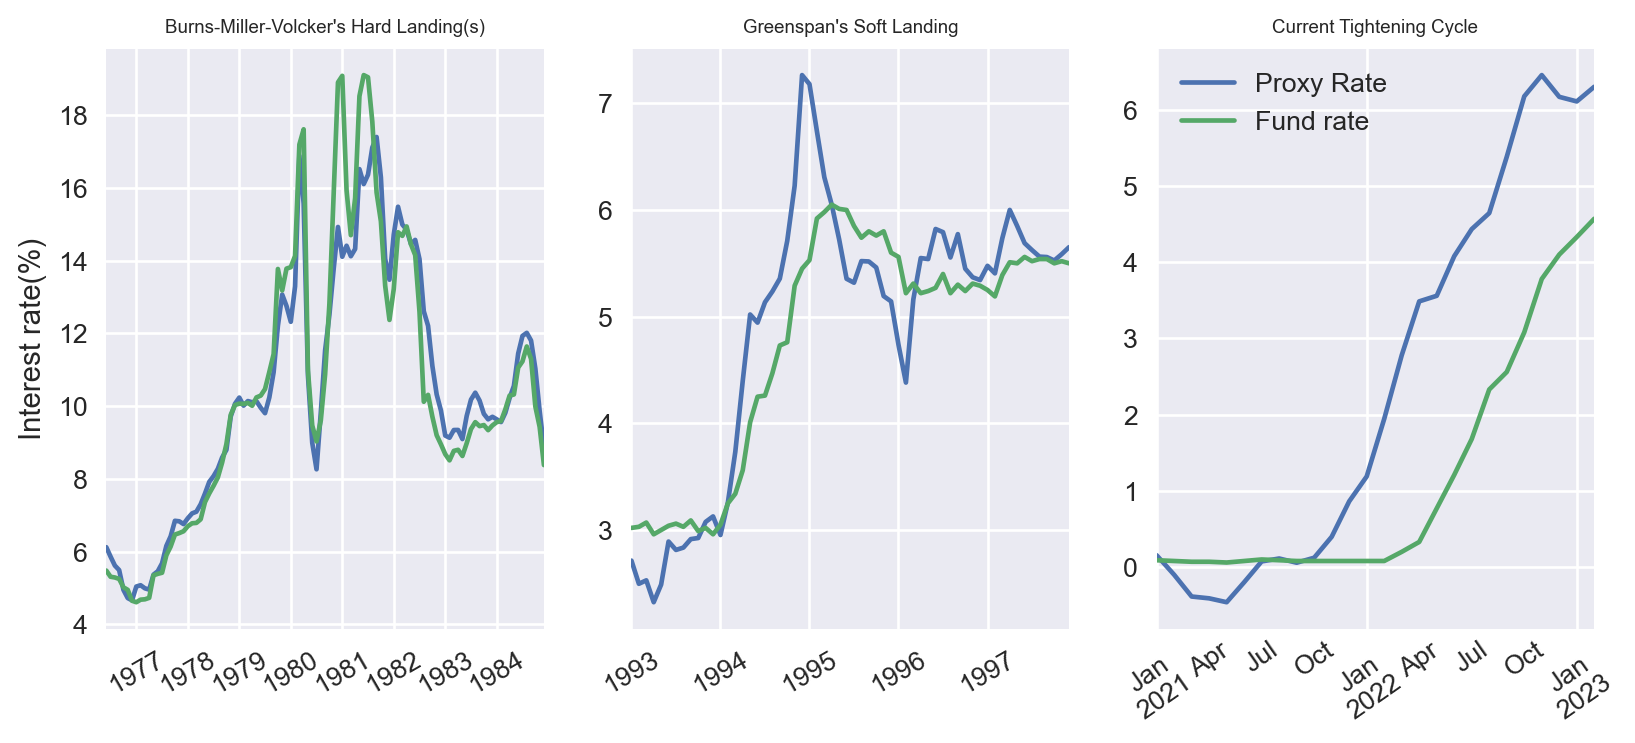
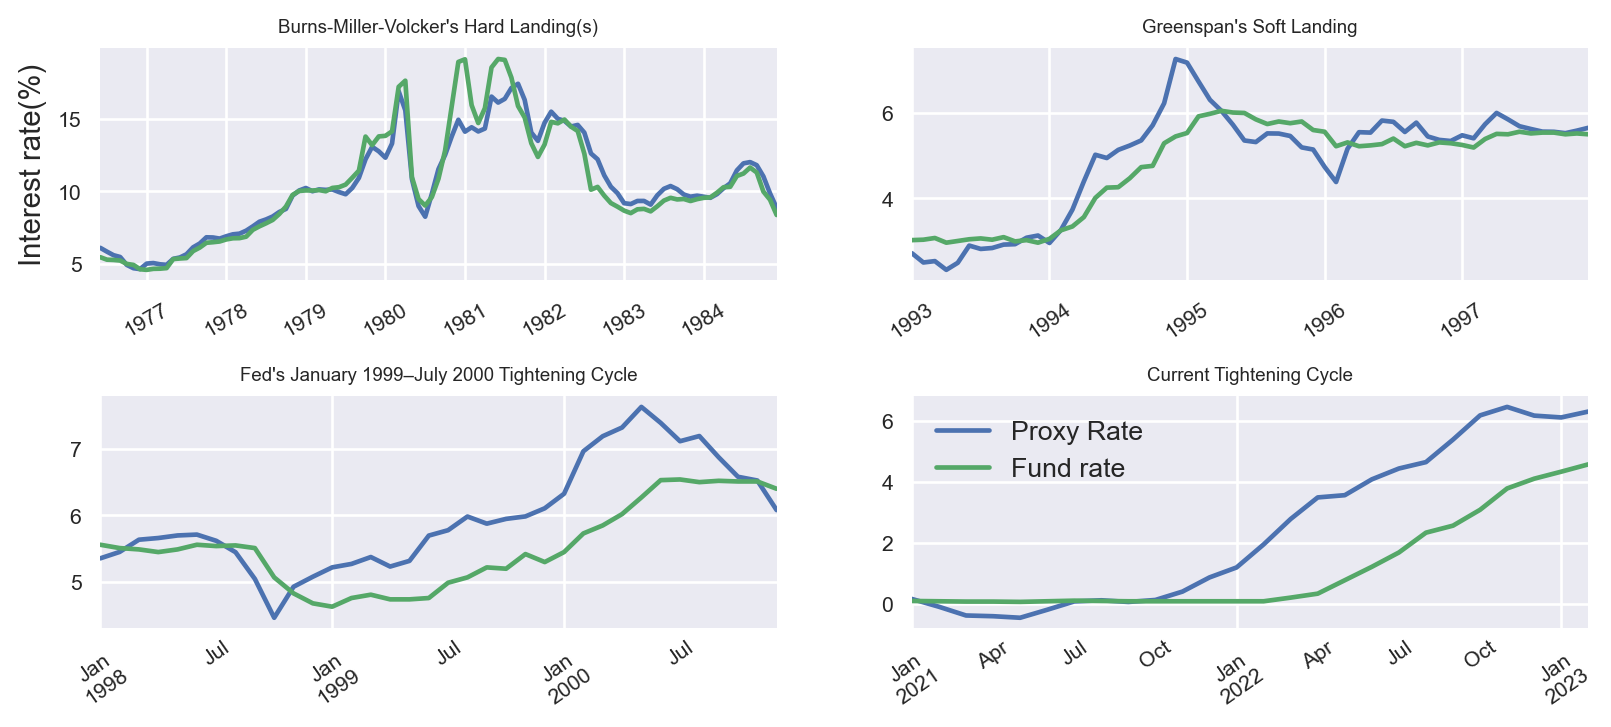
Updated my blog

diff --git a/docs/posts/Hawkish_Fed/Hawkish_Fed.html b/docs/posts/Hawkish_Fed/Hawkish_Fed.html
@@ -127,8 +127,8 @@ gtag('config', '170377145', { 'anonymize_ip': true});
    
   <ul>
   <li><a href="#introduction" id="toc-introduction" class="nav-link active" data-scroll-target="#introduction">Introduction</a></li>
-  <li><a href="#measuring-forward-guidance" id="toc-measuring-forward-guidance" class="nav-link" data-scroll-target="#measuring-forward-guidance">Measuring Forward Guidance</a></li>
-  <li><a href="#has-the-conduct-of-forward-guidance-really-changed" id="toc-has-the-conduct-of-forward-guidance-really-changed" class="nav-link" data-scroll-target="#has-the-conduct-of-forward-guidance-really-changed">Has the conduct of Forward Guidance really changed ?</a></li>
+  <li><a href="#measuring-forward-guidance-until-we-finish-the-job" id="toc-measuring-forward-guidance-until-we-finish-the-job" class="nav-link" data-scroll-target="#measuring-forward-guidance-until-we-finish-the-job">Measuring Forward Guidance: “Until We Finish the Job”</a></li>
+  <li><a href="#has-forward-guidance-changed" id="toc-has-forward-guidance-changed" class="nav-link" data-scroll-target="#has-forward-guidance-changed">Has Forward Guidance changed ?</a></li>
   <li><a href="#the-implications-for-soft-landing" id="toc-the-implications-for-soft-landing" class="nav-link" data-scroll-target="#the-implications-for-soft-landing">The implications for Soft Landing</a></li>
   </ul>
 </nav>
@@ -177,7 +177,7 @@ gtag('config', '170377145', { 'anonymize_ip': true});
 <p>One way to measure the Fed’s forward guidance is to look at the “proxy rate,” which is published by the Federal Reserve Bank of San Francisco (See <a href="https://www.frbsf.org/economic-research/indicators-data/proxy-funds-rate/">here</a> and <a href="https://www.frbsf.org/economic-research/publications/economic-letter/2022/november/monetary-policy-stance-is-tighter-than-federal-funds-rate/">here</a>). The proxy rate combines the Fed’s policy rate with the level of interest rate implied by the balance sheet changes and direct communication. Hence it incorporates the hypothetical interest rate that captures the total impact of balance sheet changes (which are also used to guide expectations) and statements on financial markets.</p>
 <p>I have plotted the proxy and policy rate in <a href="#fig-1">Figure&nbsp;1</a> below. Note that the proxy rate leads the actual policy rate because of the way monetary policy is implemented. Typically, the markets are set up in anticipation of a change in the policy rate before the change actually takes place. This pattern is (unsurprisingly) pronounced after 2007.</p>
 <p>Before the global financial crisis, the proxy rate and the fund rate were closely correlated. However, they started to diverge after 2007, when quantitative easing (QE) and forward guidance became integral components of the monetary policy framework. During this period, the use of forward guidance amounted to a monetary policy stance of negative interest rates (validating the purpose that it was designed). These ultra-low interest rates persisted until 2014 according to the proxy rate. At that point the Fed started tightening its policy until the pandemic hit.</p>
-<div class="cell" data-execution_count="2">
+<div class="cell" data-execution_count="3">
 <div class="cell-output cell-output-display">
 <div id="fig-1" class="quarto-figure quarto-figure-center anchored">
 <figure class="figure">
@@ -190,10 +190,10 @@ gtag('config', '170377145', { 'anonymize_ip': true});
 <p>In recent years, many people (including respected <a href="https://www.lse.ac.uk/CFM/assets/pdf/CFM-Discussion-Papers-2022/CFMDP2022-09-Paper.pdf">academics</a>) have criticized the Fed for acting too slowly to address the rising inflation. However, according to this evidence, the Fed began to tighten financial conditions well before the interest rate hikes took place. In fact, the actual tightening began eight months before the first rate hike in March 2022, and almost a year and a half after the pandemic shock. Note that when the Fed changed course, inflation was mostly <a href="https://www.frbsf.org/economic-research/indicators-data/supply-and-demand-driven-pce-inflation/">driven by supply-side factors</a>, such as supply chain disruptions and labor shortages. As a result, there was less room for monetary policy to do much. However, the Fed clearly began to change course before the pressure from the demand side on inflation started to substantially pick up.</p>
 <p>It’s worth emphasizing that even prior to the Global Financial Crisis (GFC), the proxy rate and the fund rate were not identical. Part of this discrepancy can be attributed to the inevitable measurement errors involved in calculating a statistical measure such as the proxy rate. Of course, it’s impossible to completely eliminate statistical errors, but we can reasonably assume that most of the difference between the proxy rate and the fund rate can be attributed to communication-related factors.</p>
 </section>
-<section id="measuring-forward-guidance" class="level2">
-<h2 class="anchored" data-anchor-id="measuring-forward-guidance">Measuring Forward Guidance</h2>
+<section id="measuring-forward-guidance-until-we-finish-the-job" class="level2">
+<h2 class="anchored" data-anchor-id="measuring-forward-guidance-until-we-finish-the-job">Measuring Forward Guidance: “Until We Finish the Job”</h2>
 <p>The difference between the proxy and policy rate shows the level of interest rate implied by the Fed’s forward guidance. <a href="#fig-2">Figure&nbsp;2</a> shows exactly this. For example, at the peak of the proxy rate during this monetary policy tightening cycle, the Fed added an extra 3% to the policy rate by just pointing what will be doing. This means that until October 2022, the economy was effectively operating at an interest rate level closer to 6% than the official policy rate of 3%<a href="#fn2" class="footnote-ref" id="fnref2" role="doc-noteref"><sup>2</sup></a>. It was only after October 2022 that the proxy rate start coming off, signaling a less hawkish stance.</p>
-<div class="cell" data-execution_count="4">
+<div class="cell" data-execution_count="5">
 <div class="cell-output cell-output-display">
 <div id="fig-2" class="quarto-figure quarto-figure-center anchored">
 <figure class="figure">
@@ -203,21 +203,15 @@ gtag('config', '170377145', { 'anonymize_ip': true});
 </div>
 </div>
 </div>
-<!--Let me explain why the evidence here indicates the most aggressive Fed since the 70s. @fig-3 below shows the standardized distribution of the forward guidance measure for each decade. This metric, which is the z-score of the distance between the proxy rate and the fund rate, allows us to compare the current stance with historical averages in a more consistent manner. A positive z-score indicates a hawkish stance, while a negative z-score indicates a dovish stance.
-
-::: {.cell execution_count=5}
-
-::: {.cell-output .cell-output-display}
-![Forward Communication across decades](Hawkish_Fed_files/figure-html/fig-3-output-1.png){#fig-3 width=659 height=470}
-:::
-:::
-
-
-During the 1970s, the distribution is skewed to the left, suggesting that the Fed's communication was more often dovish than hawkish - a situation that may have contributed to the runaway inflation of that period. This perception persisted into the next decade until Volcker changed it. Since 2000, when forward guidance became an integral part of the Fed's policy framework, we have seen improved communication from the Fed and a more even and symmetrical effect on markets. -->
 <p>What is interesting is that in recent years, when the Fed had to fight the largest increase in inflation since the 1970s, its tone changed to an equally extreme level. In fact, the evidence in <a href="#fig-2">Figure&nbsp;2</a> suggests that the effects of its direct communication and balance sheet changes had the largest impact in the US history. Meanwhile, the Fed has raised interest rates at the fastest pace in US history, and the current level of interest rates already implies a significant impact on <a href="https://msh855.github.io/TheQuantEconomist/posts/fed_and_private_consumption/the_fed_and_private_consumption.html">large effect on output</a>. This suggests that we are currently witnessing the most hawkish monetary policy stance in modern US history, and its effects are just starting to emerge.</p>
 </section>
-<section id="has-the-conduct-of-forward-guidance-really-changed" class="level2">
-<h2 class="anchored" data-anchor-id="has-the-conduct-of-forward-guidance-really-changed">Has the conduct of Forward Guidance really changed ?</h2>
+<section id="has-forward-guidance-changed" class="level2">
+<h2 class="anchored" data-anchor-id="has-forward-guidance-changed">Has Forward Guidance changed ?</h2>
+<div class="cell" data-execution_count="6">
+<div class="cell-output cell-output-display">
+<p><img src="Hawkish_Fed_files/figure-html/cell-7-output-1.png" width="818" height="361"></p>
+</div>
+</div>
 </section>
 <section id="the-implications-for-soft-landing" class="level2">
 <h2 class="anchored" data-anchor-id="the-implications-for-soft-landing">The implications for Soft Landing</h2>
@@ -230,16 +224,21 @@ During the 1970s, the distribution is skewed to the left, suggesting that the Fe
 <li>Third, Greenspan was able to raise interest rates gradually, giving businesses and consumers time to adjust.</li>
 </ul>
 <p>In <a href="#fig-5">Figure&nbsp;3</a> I plot this episode and compared it with the current tightening cycle. I have also added the “Hard landing” of Volcker (effectively begun by Burns and Miller) to make the case more clear. Before 1980s any comparisons are less meaningful (the Gold Standard, substantially different monetary policy framework, fiscal dominance). The three pre-conditions I enlisted before, continue to hold. The reaction function of the Fed under Greenspan and now are quite similar, including making up for the “long and variable lags” of Friedman.</p>
-<div class="cell" data-execution_count="6">
+<div class="cell" data-execution_count="7">
 <div class="cell-output cell-output-display">
 <div id="fig-5" class="quarto-figure quarto-figure-center anchored">
 <figure class="figure">
-<p><img src="Hawkish_Fed_files/figure-html/fig-5-output-1.png" width="818" height="372" class="figure-img"></p>
-<p></p><figcaption aria-hidden="true" class="figure-caption">Figure 3: US Monetary Policy Cycles</figcaption><p></p>
+<p><img src="Hawkish_Fed_files/figure-html/fig-5-output-1.png" width="806" height="364" class="figure-img"></p>
+<p></p><figcaption aria-hidden="true" class="figure-caption">Figure 3: Monetary Policy and Soft Landing</figcaption><p></p>
 </figure>
 </div>
 </div>
 </div>
+<p>
+</p>
+<p><br></p>
+<p>
+</p>
 <p>All these means is that the necessary conditions for soft-landing were set by the Fed. Against the consensus belief, it acted quite in advance and taking into account that the “long-variable-lags” practically imply a period of 1-2 years to see the effects of monetary policy</p>
 
 

diff --git a/docs/home.html b/docs/home.html
@@ -159,7 +159,7 @@ gtag('config', '170377145', { 'anonymize_ip': true});
 
 <div class="quarto-listing quarto-listing-container-default" id="listing-listing">
 <div class="list quarto-listing-default">
-<div class="quarto-post image-right" data-index="0" data-categories="Monetary Policy,Inflation" data-listing-date-sort="1681772400000" data-listing-file-modified-sort="1682181542323" data-listing-reading-time-sort="9.52">
+<div class="quarto-post image-right" data-index="0" data-categories="Monetary Policy,Inflation" data-listing-date-sort="1681772400000" data-listing-file-modified-sort="1682197065716" data-listing-reading-time-sort="13.035">
 <div class="body">
 <a href="./posts/Hawkish_Fed/Hawkish_Fed.html">
 <h3 class="no-anchor listing-title">
@@ -176,7 +176,7 @@ Fed’s Forward Guidance
 Apr 18, 2023
 </div>
 <div class="listing-reading-time">
-9 min
+13 min
 </div>
 </a>
 </div>

diff --git a/docs/index.html b/docs/index.html
@@ -173,7 +173,7 @@ gtag('config', '170377145', { 'anonymize_ip': true});
 
 <div class="quarto-listing quarto-listing-container-default" id="listing-listing">
 <div class="list quarto-listing-default">
-<div class="quarto-post image-right" data-index="0" data-categories="Monetary Policy,Inflation" data-listing-date-sort="1681772400000" data-listing-file-modified-sort="1682181542323" data-listing-reading-time-sort="9.52">
+<div class="quarto-post image-right" data-index="0" data-categories="Monetary Policy,Inflation" data-listing-date-sort="1681772400000" data-listing-file-modified-sort="1682197065716" data-listing-reading-time-sort="13.035">
 <div class="body">
 <a href="./posts/Hawkish_Fed/Hawkish_Fed.html">
 <h3 class="no-anchor listing-title">
@@ -190,7 +190,7 @@ Fed’s Forward Guidance
 Apr 18, 2023
 </div>
 <div class="listing-reading-time">
-9 min
+13 min
 </div>
 </a>
 </div>
